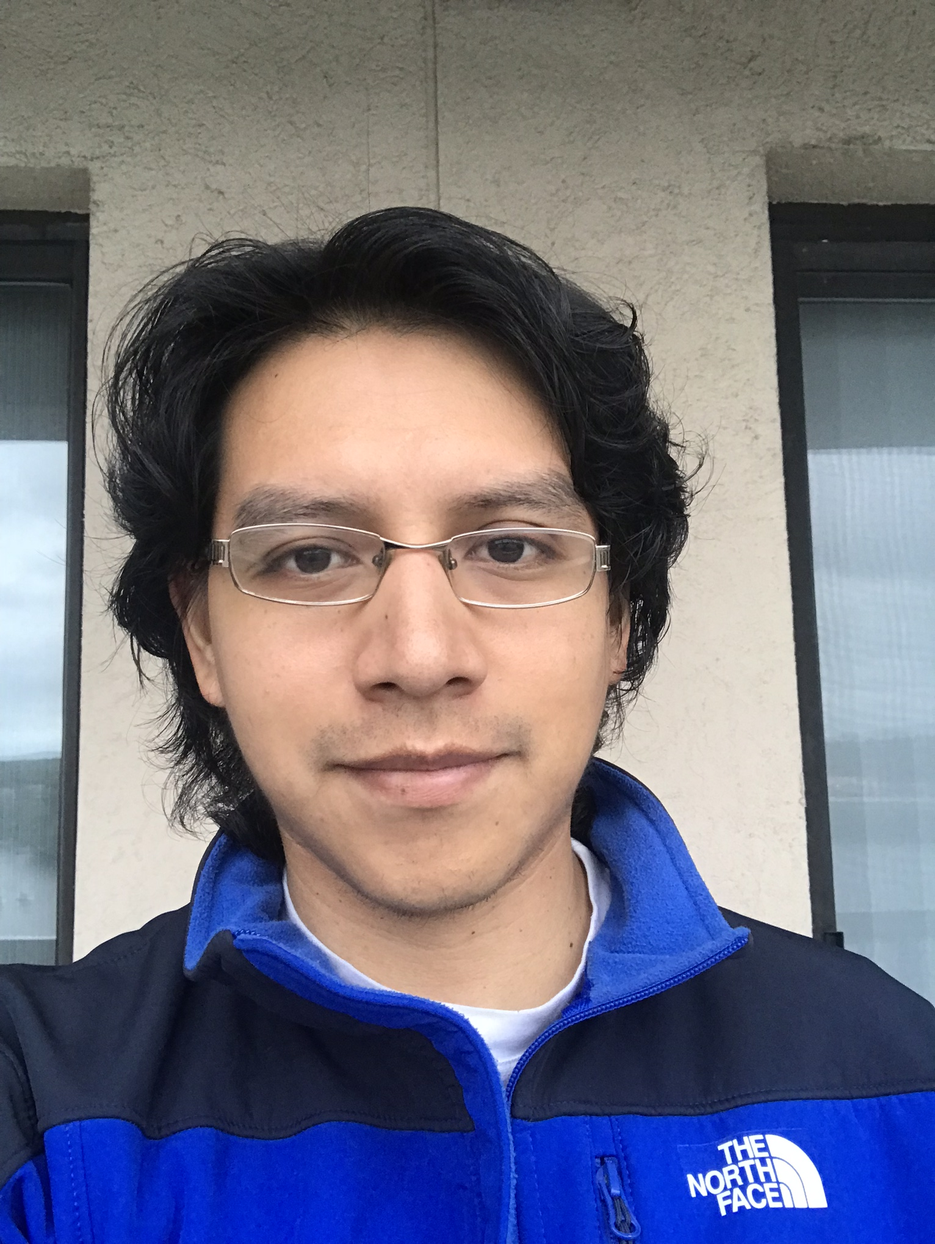
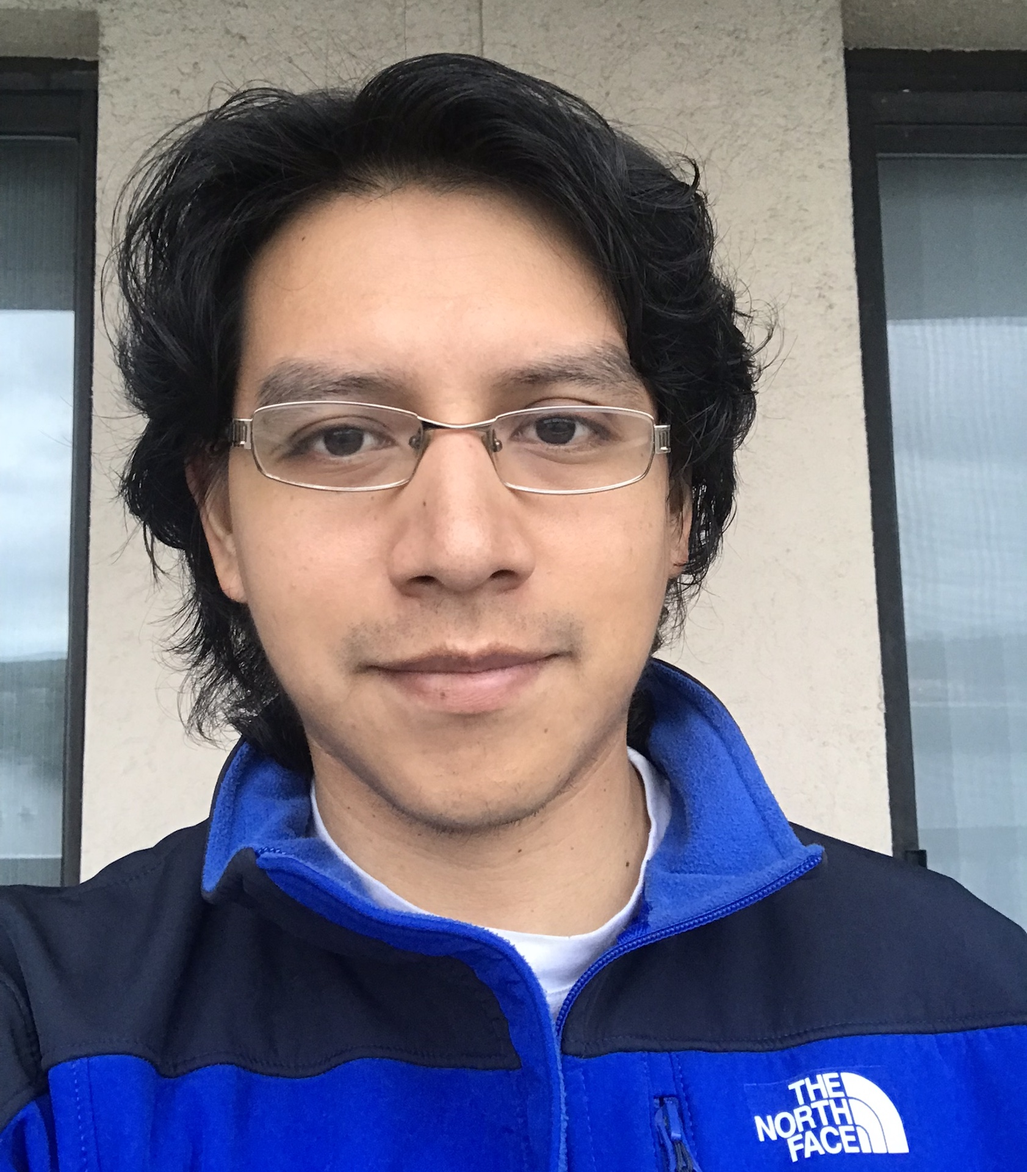
added Jesse

diff --git a/team/_posts/2020-05-07-jesse-dalmeida.md b/team/_posts/2020-05-07-jesse-dalmeida.md
@@ -1,0 +1,12 @@
+---
+layout: member
+title: "Jesse F. d'Almeida"
+position: MS Student
+nickname: Jesse
+handle: jesse
+email: jfdalmeida@wpi.edu
+image: /assets/images/team/jesse-dalmeida.jpg
+#cv: /assets/pdfs/drummond-cv.pdf
+alum: false
+---
+Jesse d'Almeida is a BS/MS student at WPI. He won the Robotics Oustanding Junior award in 2019.

diff --git a/team/_posts/2019-09-01-scream-2.0.md b/team/_posts/2019-09-01-scream-2.0.md
@@ -10,3 +10,7 @@ The SCREAM team carried out their Senior Capstone Project
 (Major Qualifying Project in WPI terminology) in 2019-2020.
 
 Team members include Andrew Gulotta, Joe Bartone, Nicholas Pacheco, and Jesse d'Almeida.
+
+<div class="text-center">
+<img src="../assets/images/team/scream-2.jpg" width='600px' >
+</div>
